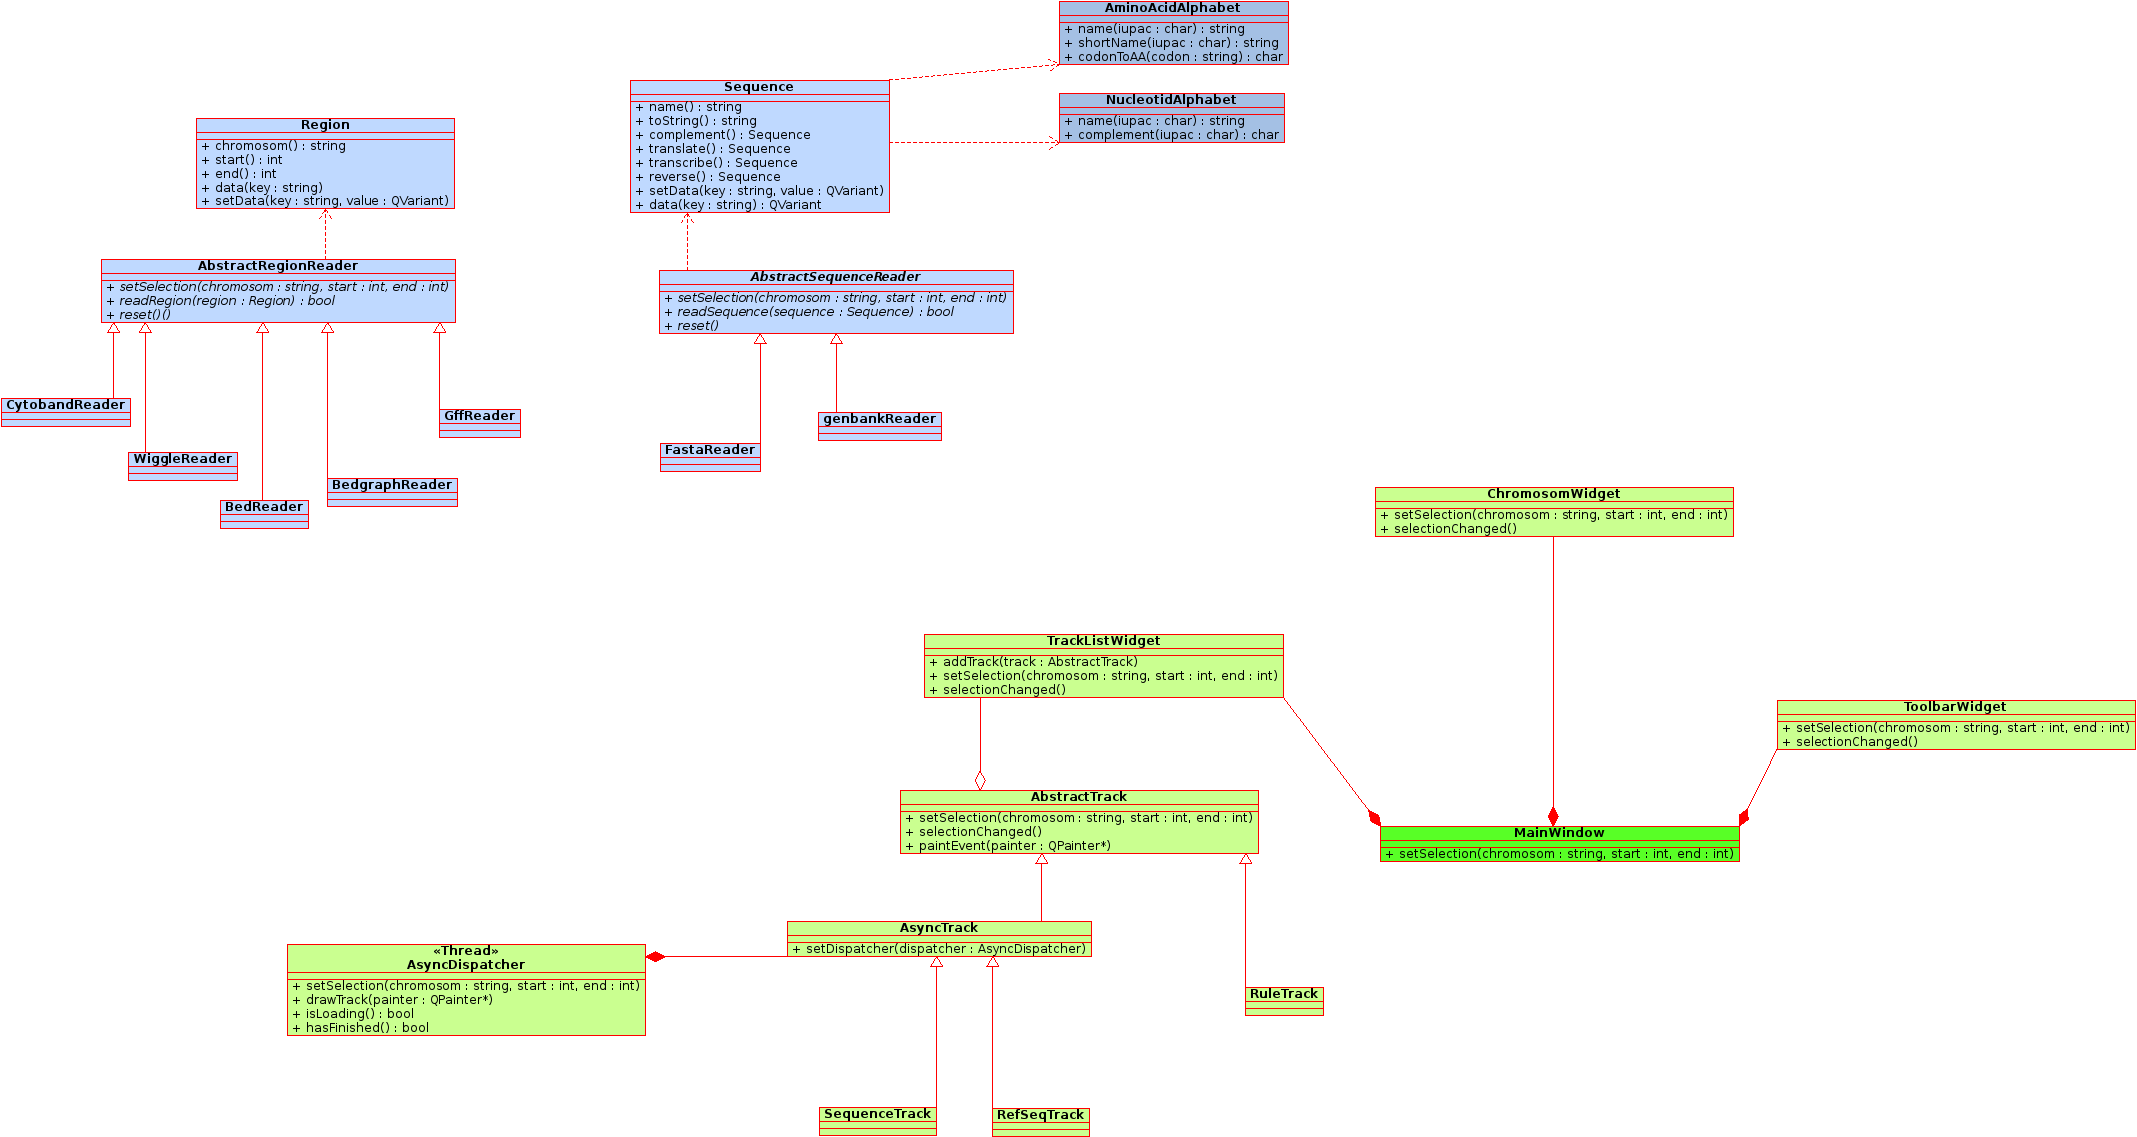
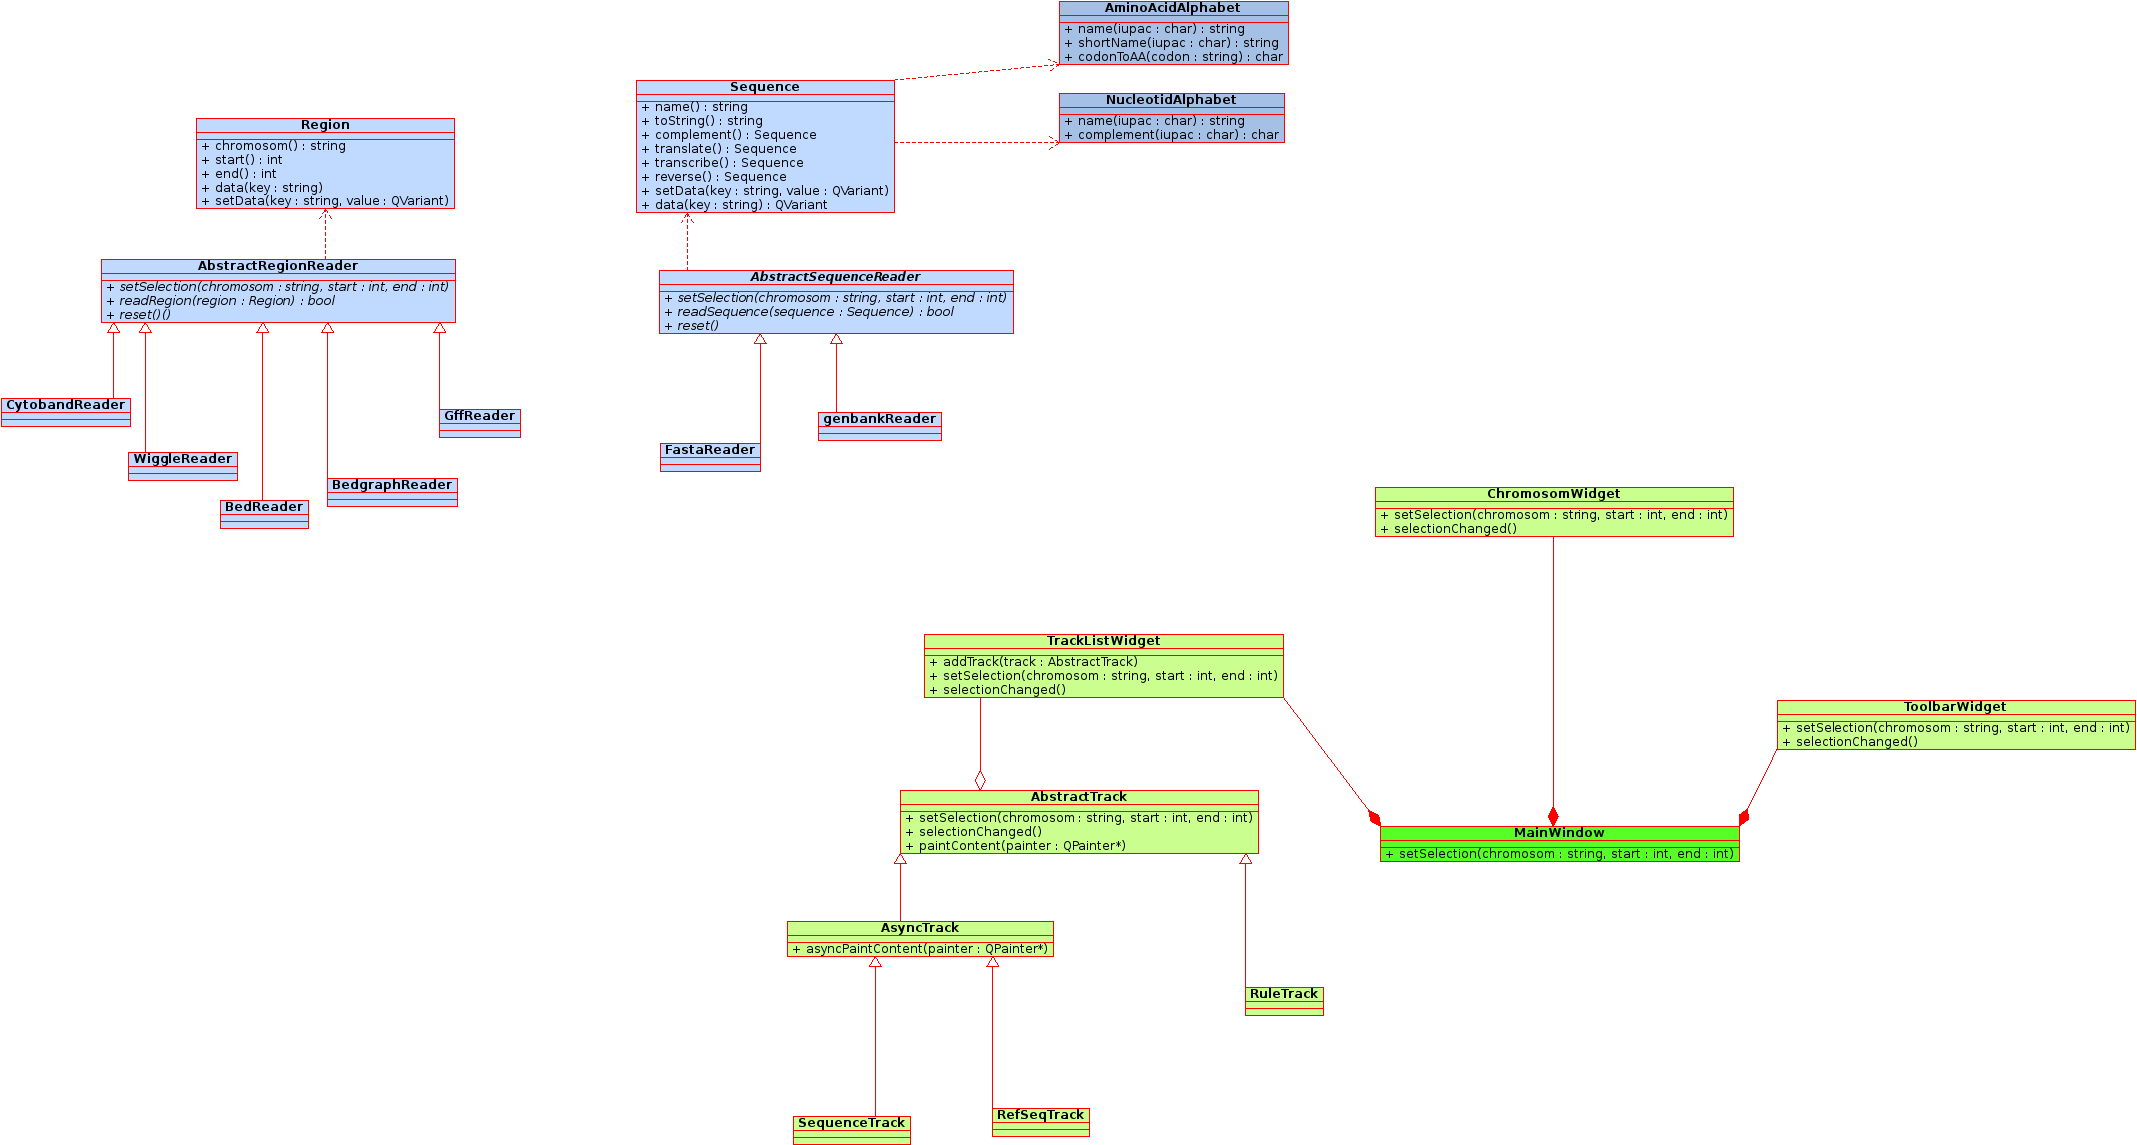
add tracksPanel

diff --git a/src/gui/trackspanel/tracksettingsheader.cpp b/src/gui/trackspanel/tracksettingsheader.cpp
@@ -1,0 +1,108 @@
+#include "tracksettingsheader.h"
+#include <QApplication>
+#include <QStyle>
+#include <QDebug>
+#include <QStyleOption>
+#include <QPalette>
+#include "app.h"
+namespace big {
+namespace gui {
+TrackSettingsHeader::TrackSettingsHeader(QWidget *parent) :
+    QWidget(parent),
+    mTitle("No Title"),
+    mIsExpand(true)
+{
+
+
+    setFixedHeight(26);
+    setSizePolicy(QSizePolicy::Expanding, QSizePolicy::Minimum);
+
+    mAngle.setStartValue(-90);
+    mAngle.setEndValue(0);
+    mAngle.setDuration(200);
+    mAngle.setEasingCurve(QEasingCurve::OutCurve);
+
+    connect(&mAngle,SIGNAL(valueChanged(QVariant)),this,SLOT(update()));
+
+}
+
+void TrackSettingsHeader::setExpand(bool expand)
+{
+
+    if (mAngle.state() == QAbstractAnimation::Running)
+        mAngle.stop();
+
+    if (!expand)
+        mAngle.setDirection(QAbstractAnimation::Forward);
+    else
+        mAngle.setDirection(QAbstractAnimation::Backward);
+
+
+    mIsExpand = expand;
+    mAngle.start();
+
+    emit expandChanged(expand);
+
+
+}
+
+bool TrackSettingsHeader::isExpand() const
+{
+ return mIsExpand;
+}
+
+void TrackSettingsHeader::paintEvent(QPaintEvent *event)
+{
+
+    // draw the background header
+    QPainter painter(this);
+    painter.setRenderHint(QPainter::Antialiasing);
+    painter.setBrush(qApp->style()->standardPalette().shadow());
+    painter.setPen(Qt::NoPen);
+
+    painter.drawRect(rect());
+
+    // draw title
+    QFont font = qApp->font();
+    font.setBold(true);
+    painter.setFont(font);
+    painter.setPen(QPen(qApp->style()->standardPalette().brightText().color()));
+    QRect textArea = rect().adjusted(height()/2 + 10,0,0,0);
+    painter.drawText(textArea, Qt::AlignLeft|Qt::AlignVCenter, mTitle);
+
+
+    // draw arrow
+
+    painter.save();
+
+    QStyleOption option;
+    option.rect = QRect(0,0,height(),height());
+    option.palette.setBrush(QPalette::Foreground, Qt::lightGray);
+
+    // do rotation
+    painter.translate(option.rect.center());
+    painter.rotate(mAngle.currentValue().toInt());
+    painter.translate(-option.rect.center());
+
+    qApp->style()->drawPrimitive(QStyle::PE_IndicatorArrowDown,&option, &painter);
+
+    painter.restore();
+
+
+    painter.setPen(QPen(qApp->style()->standardPalette().shadow().color().dark()));
+    painter.drawLine(0,height(), width(), height());
+
+    painter.setPen(QPen(qApp->style()->standardPalette().shadow().color().light()));
+    painter.drawLine(0,0, width(), 0);
+}
+
+void TrackSettingsHeader::mousePressEvent(QMouseEvent *event)
+{
+
+    setExpand(!isExpand());
+
+
+}
+
+
+}} // end namespace

diff --git a/src/gui/trackspanel/trackssettingscontainer.cpp b/src/gui/trackspanel/trackssettingscontainer.cpp
@@ -1,0 +1,61 @@
+#include "trackssettingscontainer.h"
+namespace big {
+namespace gui {
+TracksSettingsContainer::TracksSettingsContainer(QWidget *parent) : QWidget(parent)
+{
+    QVBoxLayout* layout = new QVBoxLayout( this );
+    layout->setSpacing( 0 );
+    layout->setContentsMargins( 0, 0, 0, 0 );
+
+    mHeader = new TrackSettingsHeader;
+
+    layout->addWidget(mHeader);
+
+    //    mToolButton = new QToolButton;
+    //    mTitleLabel = new QLabel("no title");
+    //    mIconLabel = new QLabel;
+    //    mIconLabel->setFixedSize(16,16);
+    //    mToolButton->setArrowType(Qt::DownArrow);
+    //    mToolButton->setCheckable(true);
+    //    mToolButton->setChecked(true);
+    //    headerLayout->addWidget(mIconLabel);
+    //    headerLayout->addWidget(mTitleLabel);
+    //    headerLayout->addWidget(mToolButton);
+    //    //    header->setSizePolicy(QSizePolicy::Expanding,QSizePolicy::Expanding);
+    //    headerLayout->setContentsMargins(2,0,0,0);
+
+
+    mContent = new QWidget;
+    QVBoxLayout * contentLayout = new QVBoxLayout;
+    contentLayout->setContentsMargins(0,0,0,0);
+    mContent->setLayout(contentLayout);
+
+    layout->addWidget(mContent);
+
+    setLayout( layout );
+
+    // connect(mToolButton,SIGNAL(toggled(bool)),this,SLOT(collapse(bool)));
+
+    connect(mHeader,SIGNAL(expandChanged(bool)),this,SLOT(expand(bool)));
+    mContent->setVisible(false);
+}
+
+void TracksSettingsContainer::setWidget(QWidget *widget)
+{
+    mContent->layout()->addWidget(widget);
+    //widget->setStyleSheet("QWidget {background-color:lightgray}");
+    //    setTitle(widget->windowTitle());
+    //    setIcon(widget->windowIcon());
+}
+
+void TracksSettingsContainer::expand(bool expand)
+{
+    mContent->setVisible(!expand);
+}
+
+void TracksSettingsContainer::collapse(bool collapse)
+{
+    mContent->setVisible(collapse);
+}
+
+}} // end namespace

diff --git a/src/gui/mainwindow.cpp b/src/gui/mainwindow.cpp
@@ -3,6 +3,7 @@
 #include "sequencetrack.h"
 #include "rulertrack.h"
 #include "asynctrack.h"
+
 namespace big {
 namespace gui {
 MainWindow::MainWindow(QWidget *parent) : QMainWindow(parent)
@@ -15,6 +16,7 @@ MainWindow::MainWindow(QWidget *parent) : QMainWindow(parent)
     mchromosomWidget = new ChromosomWidget();
     mTrackListWidget = new TrackListWidget();
     mGenom           = new Genom();
+    mTracksPanel     = new TrackSettingsPanel();
 
     setMenuBar(mMenuBar);
     addToolBar(mToolBar);
@@ -22,8 +24,13 @@ MainWindow::MainWindow(QWidget *parent) : QMainWindow(parent)
 
 
     QSplitter * centralSplitter = new QSplitter(Qt::Vertical);
+    QSplitter * secondSplitter  = new QSplitter(Qt::Horizontal);
+
+    secondSplitter->addWidget(mTracksPanel);
+    secondSplitter->addWidget(mTrackListWidget);
+
     centralSplitter->addWidget(mchromosomWidget);
-    centralSplitter->addWidget(mTrackListWidget);
+    centralSplitter->addWidget(secondSplitter);
 
     mTrackListWidget->addTrack(new RulerTrack());
     mTrackListWidget->addTrack(new AsyncTrack());
@@ -33,6 +40,18 @@ MainWindow::MainWindow(QWidget *parent) : QMainWindow(parent)
     mTrackListWidget->addTrack(new SequenceTrack());
 
 
+
+
+
+    mTracksPanel->addWidget(new QTextEdit);
+    mTracksPanel->addWidget(new QTextEdit);
+    mTracksPanel->addWidget(new QTextEdit);
+    mTracksPanel->addWidget(new QTextEdit);
+    mTracksPanel->addWidget(new QTextEdit);
+    mTracksPanel->addWidget(new QTextEdit);
+    mTracksPanel->addWidget(new QTextEdit);
+
+
     QVBoxLayout * centralLayout = new QVBoxLayout;
     centralLayout->addWidget(centralSplitter);
     centralLayout->addWidget(mStatusBar);
@@ -40,6 +59,7 @@ MainWindow::MainWindow(QWidget *parent) : QMainWindow(parent)
 
     QWidget * cWidget = new QWidget;
     cWidget->setLayout(centralLayout);
+
 
 
     setCentralWidget(cWidget);

diff --git a/src/gui/trackspanel/tracksettingspanel.cpp b/src/gui/trackspanel/tracksettingspanel.cpp
@@ -1,0 +1,31 @@
+#include "tracksettingspanel.h"
+namespace big {
+namespace gui {
+TrackSettingsPanel::TrackSettingsPanel(QWidget *parent) : QScrollArea(parent)
+{
+    mContent = new QWidget;
+    mContentLayout = new QVBoxLayout;
+    mContentLayout->setContentsMargins(0,0,0,0);
+    mContentLayout->setSpacing(0);
+    mContentLayout->addStretch();
+    mContent->setLayout(mContentLayout);
+    setWidgetResizable(true);
+    setWidget(mContent);
+    setHorizontalScrollBarPolicy(Qt::ScrollBarAlwaysOff);
+}
+
+void TrackSettingsPanel::addWidget(QWidget *widget)
+{
+    TracksSettingsContainer * container = new TracksSettingsContainer;
+    container->setWidget(widget);
+    mContentLayout->insertWidget(0,container);
+
+    mContent = new QWidget;
+    mContent->setLayout(mContentLayout);
+
+
+    setWidget(mContent);
+}
+
+
+}} // end namespace

diff --git a/src/gui/trackspanel/tracksettingsheader.h b/src/gui/trackspanel/tracksettingsheader.h
@@ -1,0 +1,37 @@
+#ifndef TRACKSETTINGSHEADER_H
+#define TRACKSETTINGSHEADER_H
+
+#include <QWidget>
+#include <QPaintEvent>
+#include <QPainter>
+#include <QVariantAnimation>
+#include <QMouseEvent>
+namespace big {
+namespace gui {
+class TrackSettingsHeader : public QWidget
+{
+    Q_OBJECT
+public:
+    explicit TrackSettingsHeader(QWidget *parent = 0);
+
+public Q_SLOTS:
+    void setExpand(bool setExpand = true);
+    bool isExpand() const;
+
+signals:
+    void expandChanged(bool expand);
+
+protected:
+void paintEvent(QPaintEvent * event);
+void mousePressEvent(QMouseEvent * event);
+
+
+private:
+QString mTitle;
+QVariantAnimation mAngle;
+bool mIsExpand;
+
+};
+
+}} // end namespace
+#endif // TRACKSETTINGSHEADER_H

diff --git a/src/gui/trackspanel/trackssettingscontainer.h b/src/gui/trackspanel/trackssettingscontainer.h
@@ -1,0 +1,34 @@
+#ifndef TRACKSSETTINGSCONTAINER_H
+#define TRACKSSETTINGSCONTAINER_H
+
+#include <QWidget>
+#include <QtWidgets>
+#include "tracksettingsheader.h"
+namespace big {
+namespace gui {
+class TracksSettingsContainer : public QWidget
+{
+    Q_OBJECT
+public:
+    explicit TracksSettingsContainer(QWidget *parent = 0);
+
+    void setWidget(QWidget * widget);
+
+public Q_SLOTS:
+    void expand(bool expand = true);
+    void collapse(bool collapse = true);
+
+private:
+    QWidget * mContent;
+    QLabel * mTitleLabel;
+    QLabel * mIconLabel;
+    QToolButton * mToolButton;
+    TrackSettingsHeader * mHeader;
+
+
+
+};
+
+}} // end namespace
+
+#endif // TRACKSSETTINGSCONTAINER_H

diff --git a/src/gui/trackspanel/tracksettingspanel.h b/src/gui/trackspanel/tracksettingspanel.h
@@ -1,0 +1,23 @@
+#ifndef TRACKSPANEL_H
+#define TRACKSPANEL_H
+#include <QWidget>
+#include <QtWidgets>
+#include "trackssettingscontainer.h"
+namespace big {
+namespace gui {
+
+class TrackSettingsPanel : public QScrollArea
+{
+    Q_OBJECT
+public:
+    explicit TrackSettingsPanel(QWidget *parent = 0);
+    void addWidget(QWidget * widget);
+
+private:
+    QWidget * mContent;
+    QVBoxLayout * mContentLayout;
+};
+
+
+}}
+#endif // TRACKSPANEL_H

diff --git a/src/gui/mainwindow.h b/src/gui/mainwindow.h
@@ -9,6 +9,7 @@
 #include "tracklistwidget.h"
 #include "chromosomwidget.h"
 #include "settingsdialog.h"
+#include "tracksettingspanel.h"
 #include "genom.h"
 
 namespace big {
@@ -37,6 +38,7 @@ private:
     StatusBar * mStatusBar;
     ChromosomWidget * mchromosomWidget;
     TrackListWidget * mTrackListWidget;
+    TrackSettingsPanel * mTracksPanel;
     Genom * mGenom;
 
 
